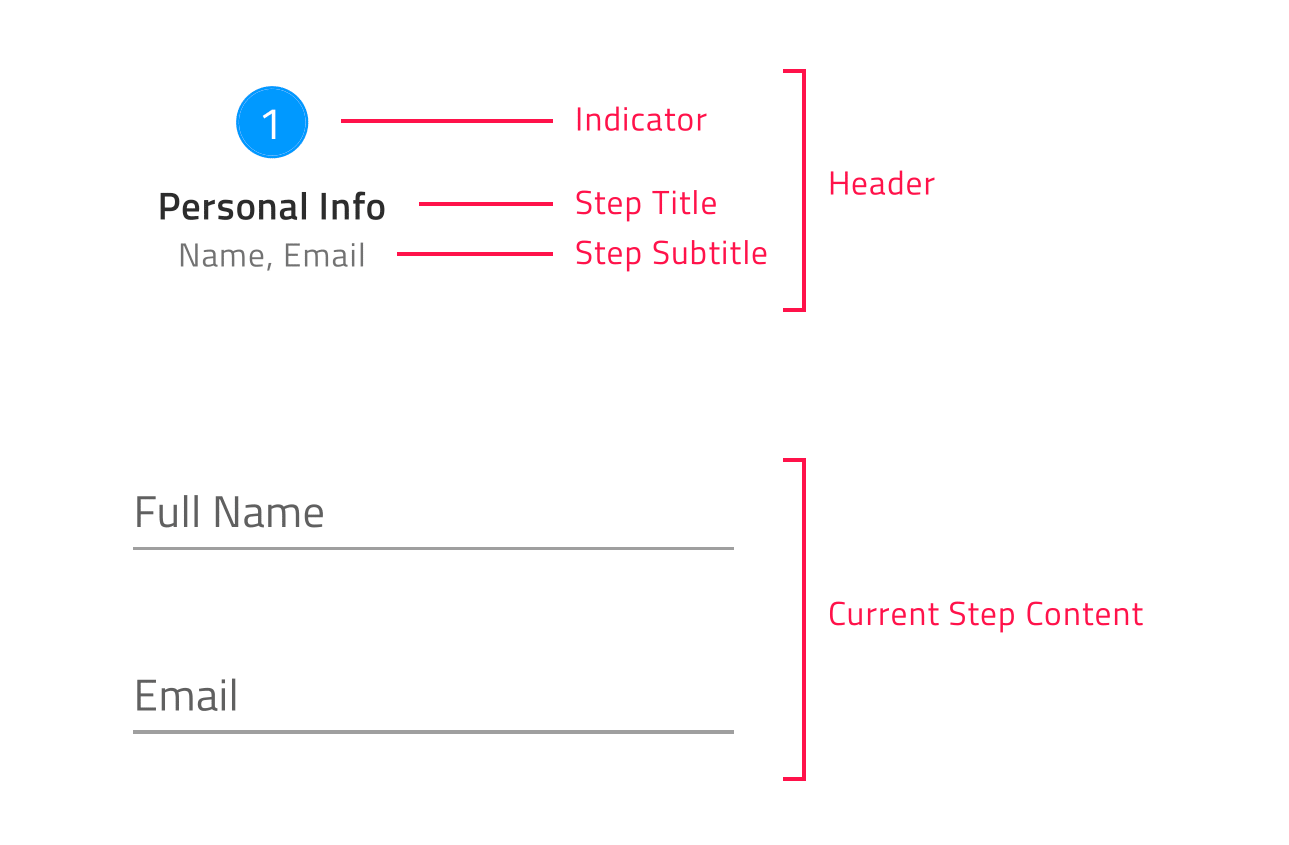
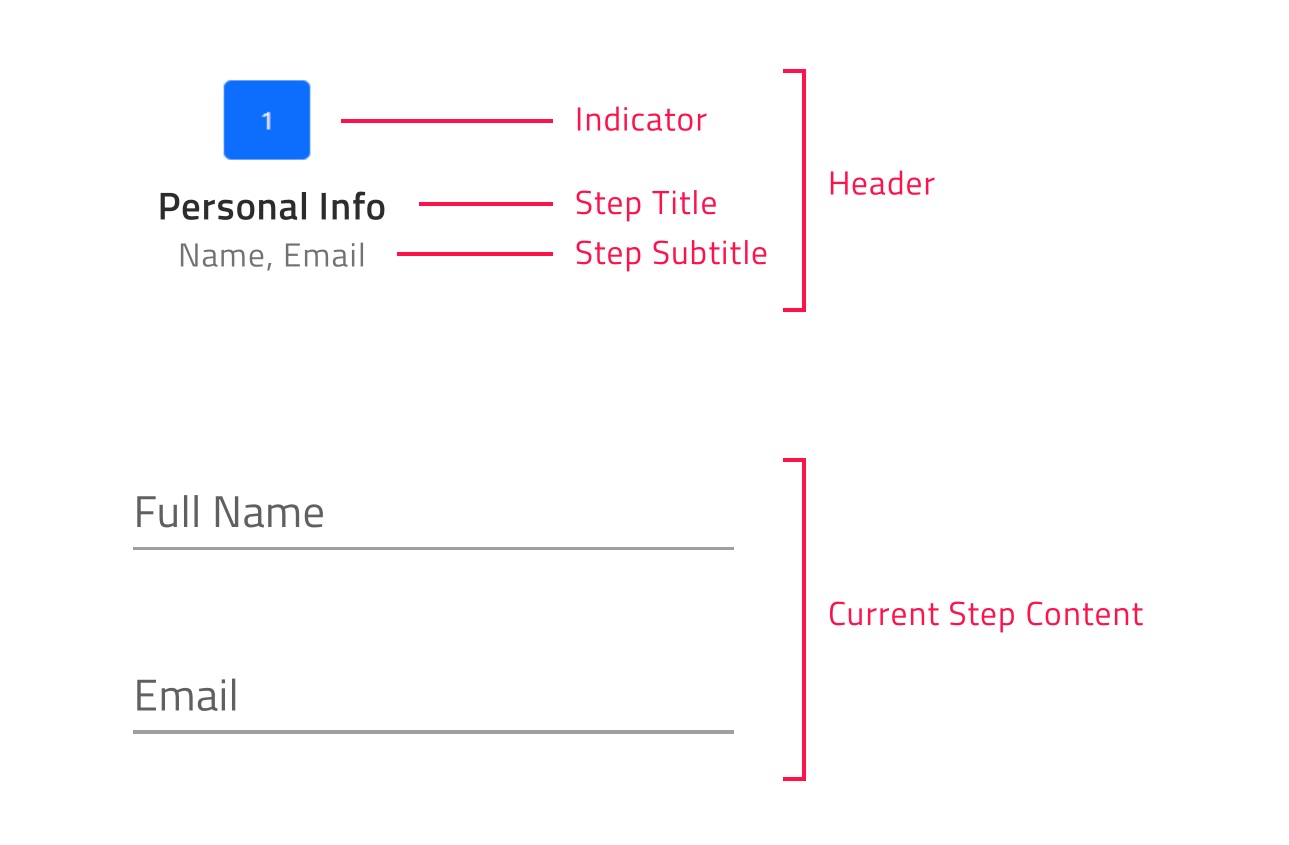
docs(stepper): refactor images and demos

Changed region(s): [[0.1552, 0.0923, 0.2483, 0.2154]]

diff --git a/docs/xplat/doc/en/components/layouts/stepper.md b/docs/xplat/doc/en/components/layouts/stepper.md
@@ -91,7 +91,7 @@ For each step the user has the ability to configure indicator, title and subtitl
     </igc-step>
 </igc-stepper>
 ```
-<img class="responsive-img" style="margin-bottom:10px; -webkit-box-shadow: 4px 4px 4px 4px #ccc; -moz-box-shadow: 4px 4px 4px 4px #ccc; box-shadow: 4px 4px 4px 4px #ccc; max-width: 500px" src="../images/stepper/stepper-step.png"  data-src="../images/stepper/stepper-step.png" />
+<img class="responsive-img" style="margin-bottom:10px; -webkit-box-shadow: 4px 4px 4px 4px #ccc; -moz-box-shadow: 4px 4px 4px 4px #ccc; box-shadow: 4px 4px 4px 4px #ccc; max-width: 500px" src="../../images/stepper/stepper-step.png"/>
 
 ### Changing the Stepper Orientation
 You can customize the stepper orientation through the exposed `orientation` property. It could be set to **horizontal** *(default value)* or **vertical**.
@@ -101,7 +101,7 @@ You can customize the stepper orientation through the exposed `orientation` prop
 *horizontal* is the default value for the `Stepper` orientation property.
 When the stepper is horizontally orientated you have the opportunity to determine whether the steps’ content would be displayed above or below the steps’ headers. This could be achieved by setting the `Stepper` contentTop boolean property, which default value is *false*. In case it is enabled the steps’ content would be displayed above the steps’ headers.
 
-<img class="responsive-img" style="margin-bottom:10px; -webkit-box-shadow: 4px 4px 4px 4px #ccc; -moz-box-shadow: 4px 4px 4px 4px #ccc; box-shadow: 4px 4px 4px 4px #ccc; max-width: 800px"  src="../images/stepper/stepper-contentTop.png" data-src="../images/stepper/stepper-contentTop.png"/>
+<img class="responsive-img" style="margin-bottom:10px; -webkit-box-shadow: 4px 4px 4px 4px #ccc; -moz-box-shadow: 4px 4px 4px 4px #ccc; box-shadow: 4px 4px 4px 4px #ccc; max-width: 800px"  src="../../images/stepper/stepper-contentTop.png"/>
 
 **Vertical Stepper Orientation**
 
@@ -111,9 +111,9 @@ The sample below demonstrates how stepper orientation and titles position could 
 
 <code-view style="height: 528px"
            data-demos-base-url="{environment:dvDemosBaseUrl}"
-           iframe-src="{environment:demosBaseUrl}/layouts/stepper-label-position-and-orientation-example"
+           iframe-src="{environment:demosBaseUrl}/layouts/stepper-title-position-and-orientation-example"
            alt="{Platform} Stepper Orientation Example"
-           github-src="layouts/stepper/label-position-and-orientation-example">
+           github-src="layouts/stepper/title-position-and-orientation-example">
 </code-view>
 
 <div class="divider--half"></div>